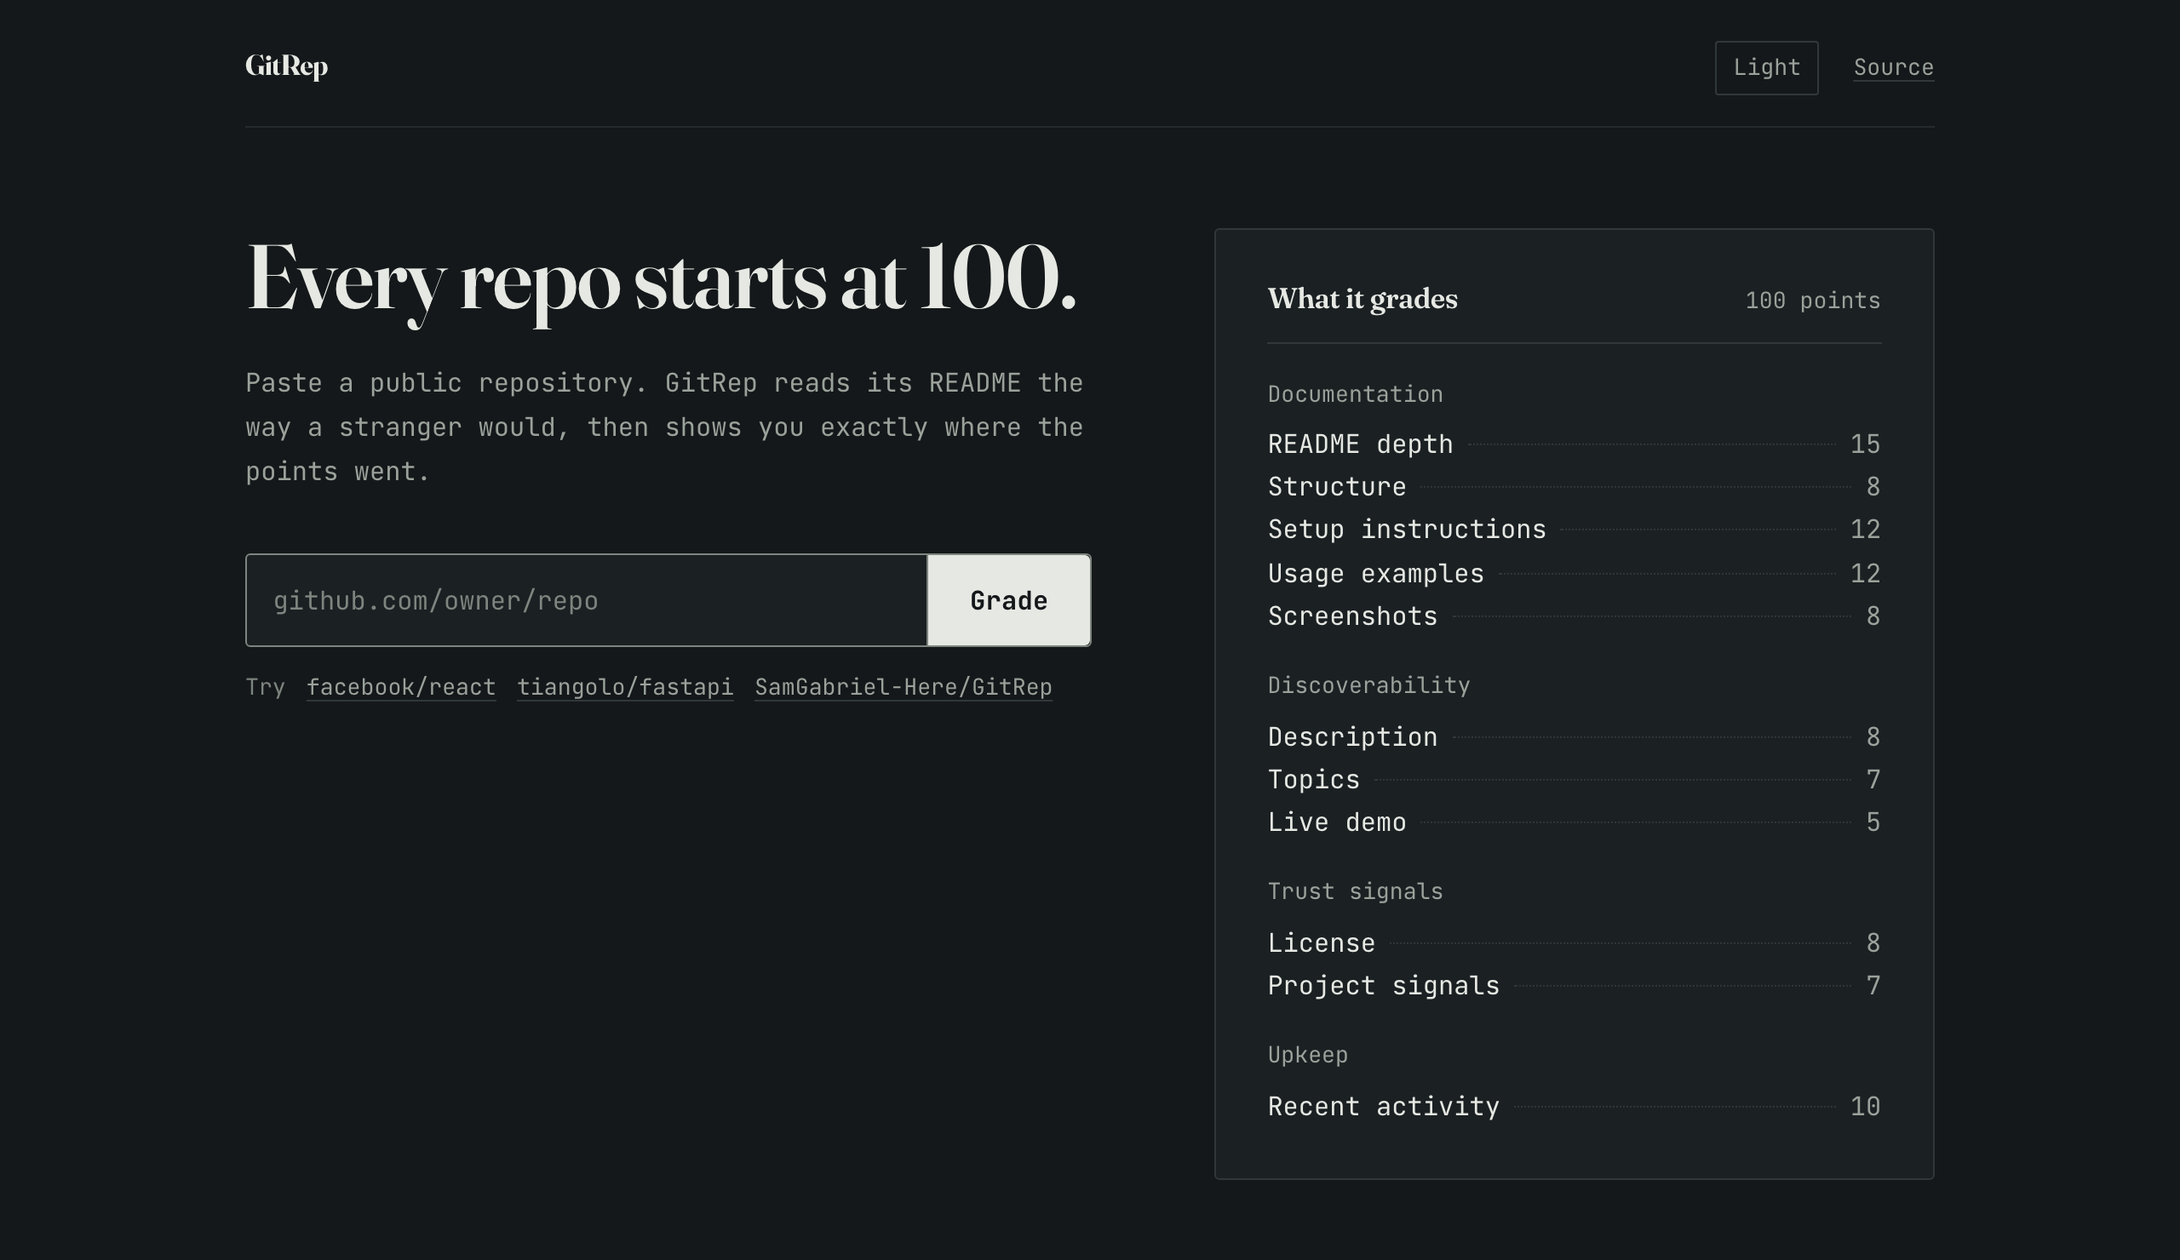
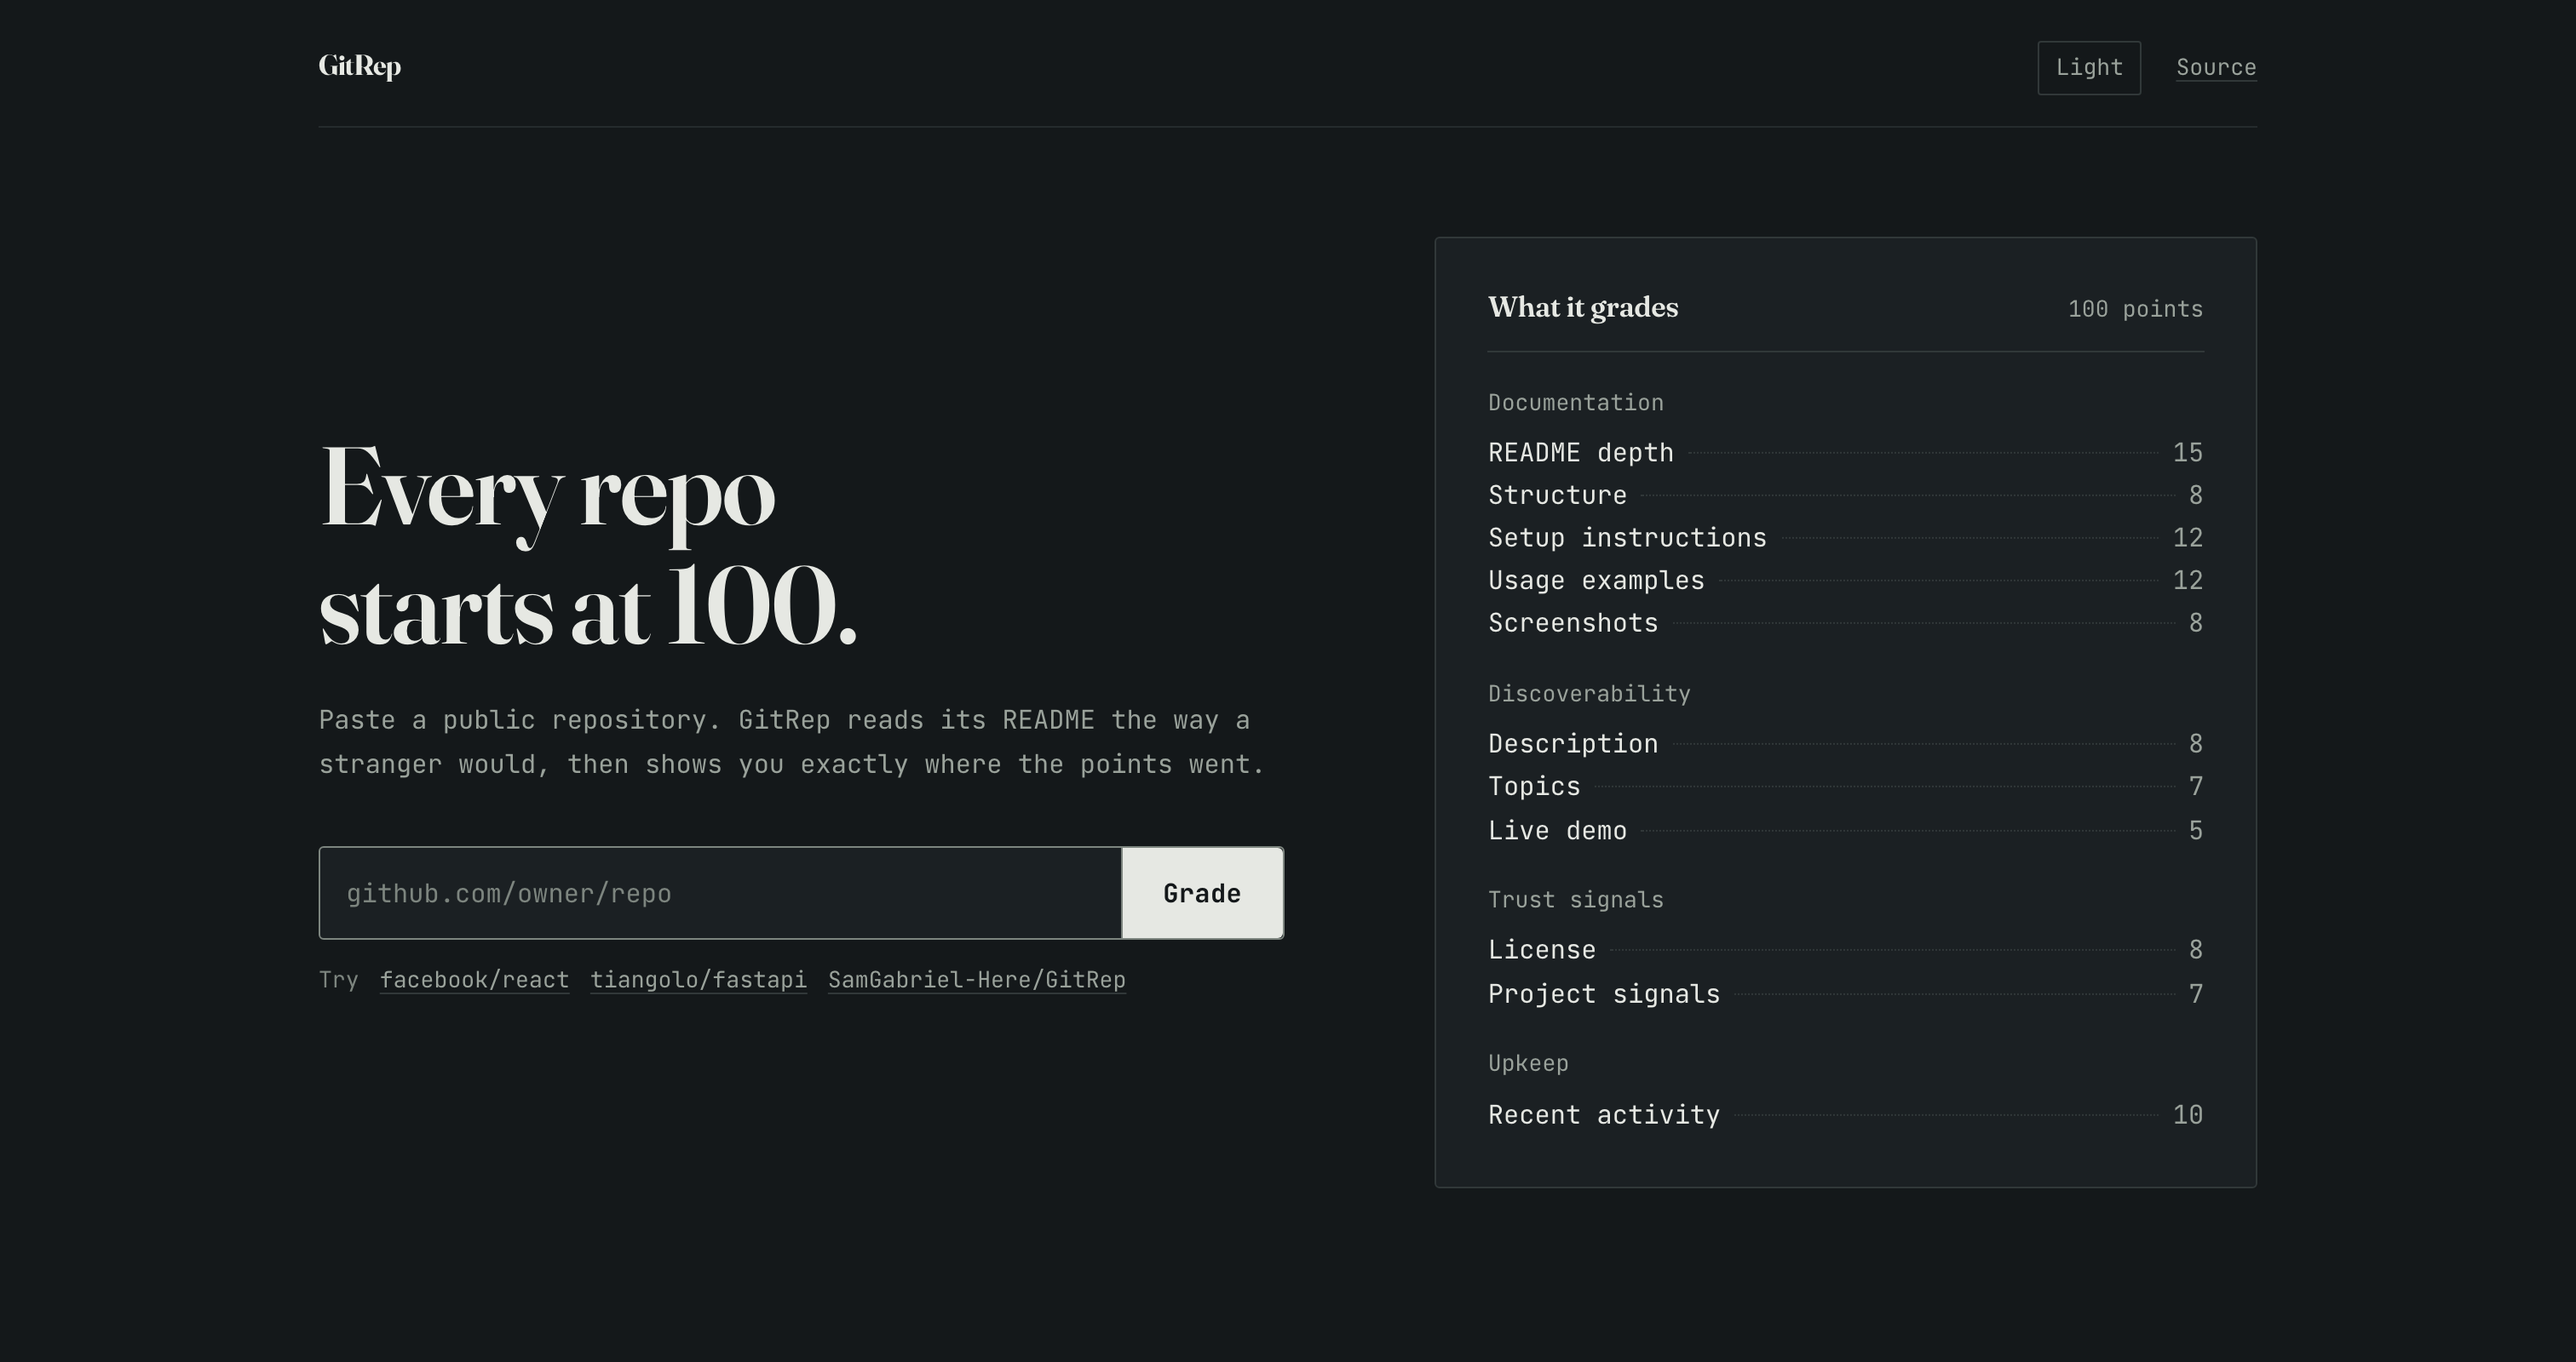
Stop the layout stranding half the screen on a wide display
At 1920px the 68rem shell sat in 416px of dead margin on each side, about 43%
of the window doing nothing, and the page read as small rather than spacious.
The rubric panel is also roughly 200px taller than the pitch beside it, and
`align-items: start` dumped that whole difference into one void under the
input.

The shell is fluid now: `clamp(68rem, 46rem + 34vw, 96rem)`, which is 7%
margins at 1440px and 14% at 1920px, with a ceiling so the ledger never
sprawls. The headline ceiling rose from 3.4rem to 4.6rem to match, because
filling that space wants presence rather than just a longer line, and the
prose measure went from 34rem to 38rem so the standfirst keeps pace.

The opening columns are vertically centred, which shares the height
difference above and below instead of piling it underneath.

Checked at 1440, 1920 and 375: no horizontal scroll anywhere, the ledger
detail text is still capped at 46rem so rows stay readable however wide the
leaders run, and the mobile type floors are untouched.

diff --git a/frontend/src/styles/tokens.css b/frontend/src/styles/tokens.css
@@ -35,10 +35,11 @@
   --step-0: clamp(0.88rem, 0.85rem + 0.15vw, 0.95rem);
   --step-1: clamp(0.95rem, 0.9rem + 0.25vw, 1.06rem);
   --step-2: clamp(1.3rem, 1.15rem + 0.7vw, 1.75rem);
-  --step-3: clamp(1.9rem, 1.4rem + 2.4vw, 3.4rem);
+  --step-3: clamp(1.9rem, 1.3rem + 2.9vw, 4.6rem);
 
-  --gutter: clamp(1.15rem, 4vw, 3rem);
-  --measure: 34rem;
+  --gutter: clamp(1.15rem, 4vw, 3.5rem);
+  --measure: 38rem;
+  --shell: clamp(68rem, 46rem + 34vw, 96rem);
 
   color-scheme: light;
   font-family: var(--mono);

diff --git a/frontend/src/styles/app.css b/frontend/src/styles/app.css
@@ -1,7 +1,7 @@
 /* ---------- shell ---------- */
 
 .shell {
-  max-width: 68rem;
+  max-width: var(--shell);
   margin: 0 auto;
   padding: 0 var(--gutter) 4rem;
 }
@@ -52,8 +52,8 @@
 .opening {
   display: grid;
   grid-template-columns: minmax(0, 1.08fr) minmax(0, 0.92fr);
-  gap: clamp(2.25rem, 6vw, 4.5rem);
-  align-items: start;
+  gap: clamp(2.25rem, 6vw, 5.5rem);
+  align-items: center;
   padding: clamp(2.5rem, 8vh, 4.5rem) 0;
 }
 

diff --git a/DESIGN.md b/DESIGN.md
@@ -79,7 +79,7 @@ on this page is long-form prose.
 
 | Level | Token | Min → Max | Weight | Usage |
 |---|---|---|---|---|
-| Display | `--step-3` | 30.4px → 54.4px | 600 | Headline |
+| Display | `--step-3` | 30.4px → 73.6px | 600 | Headline |
 | Total | inline `clamp` | 56px → 104px | 700 | The score figure only |
 | H2 | `--step-2` | 20.8px → 28px | 600 | Repo name, verdict word |
 | H3 | `--step-1` | 15.2px → 17px | 600 | Panel and ledger heads |
@@ -102,14 +102,23 @@ mechanics, per the tokenize-intent rule.
 
 | Token | Value | Usage |
 |---|---|---|
-| `--gutter` | `clamp(1.15rem, 4vw, 3rem)` | Page side padding |
-| `--measure` | `34rem` | Max line length for prose |
-| Shell max width | `68rem` | Content column |
+| `--gutter` | `clamp(1.15rem, 4vw, 3.5rem)` | Page side padding |
+| `--measure` | `38rem` | Max line length for prose |
+| `--shell` | `clamp(68rem, 46rem + 34vw, 96rem)` | Content column |
+
+The shell is fluid rather than fixed. A 68rem column centred in a 1920px window
+left 416px of dead margin on each side, about 43% of the screen doing nothing, and the
+page read as small rather than spacious. It now widens with the viewport: 7% margins at
+1440px, 14% at 1920px, and it stops growing at 96rem so the ledger never sprawls. The
+headline's ceiling rose alongside it, because filling that space wants presence, not just a
+longer line.
 
 ### Grid
 
-- Opening: two columns, `minmax(0, 1.08fr) minmax(0, 0.92fr)`, gap `clamp(2.25rem, 6vw, 4.5rem)`.
-  The pitch is wider than the rubric on purpose, so the headline sets the reading order.
+- Opening: two columns, `minmax(0, 1.08fr) minmax(0, 0.92fr)`, gap `clamp(2.25rem, 6vw, 5.5rem)`,
+  vertically centred. The pitch is wider than the rubric on purpose, so the headline sets the
+  reading order. Centring matters: the rubric panel is roughly 200px taller than the pitch,
+  and aligning to the start dumped all of that difference into one void under the input.
 - Report and ledger: single column. The ledger row is a flex cluster whose leader absorbs all
   slack, which is what keeps figures flush right at every width.
 - Breakpoints: **860px** (opening collapses to one column) and **520px** (input stacks above
